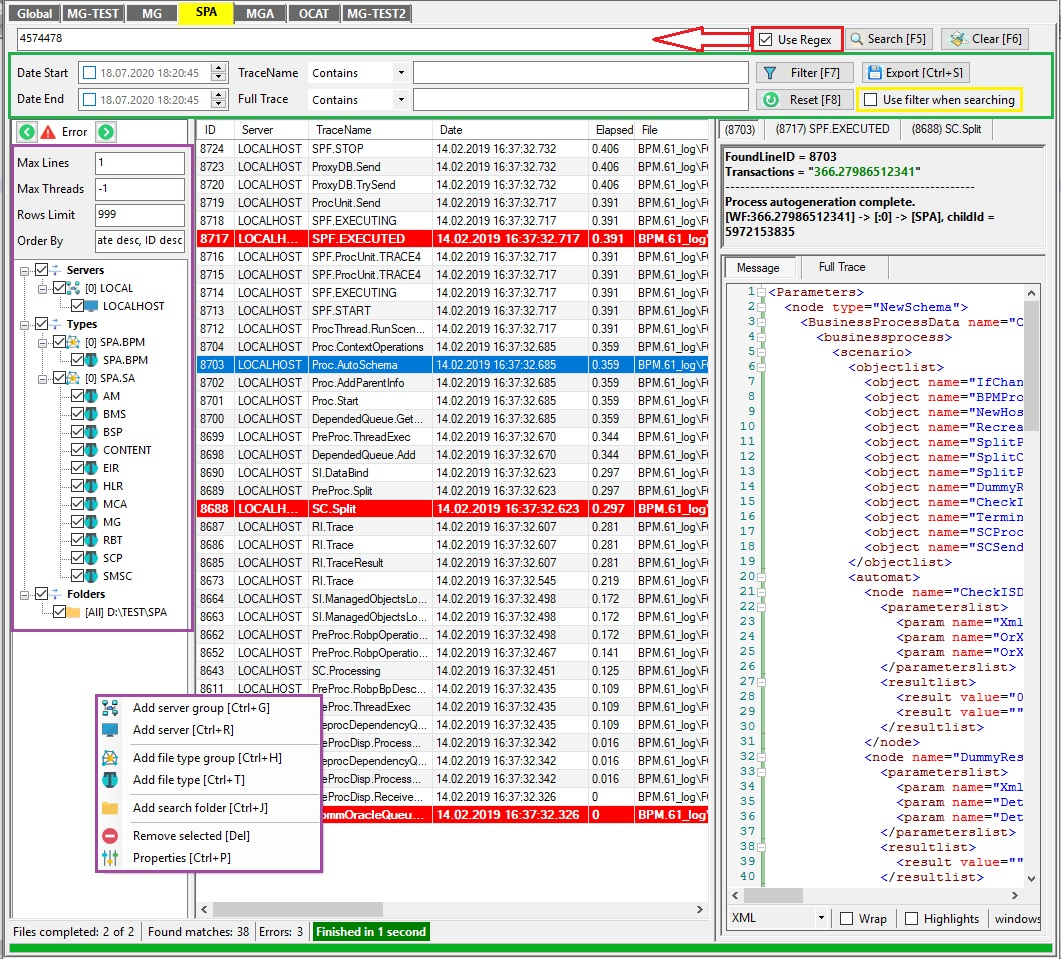
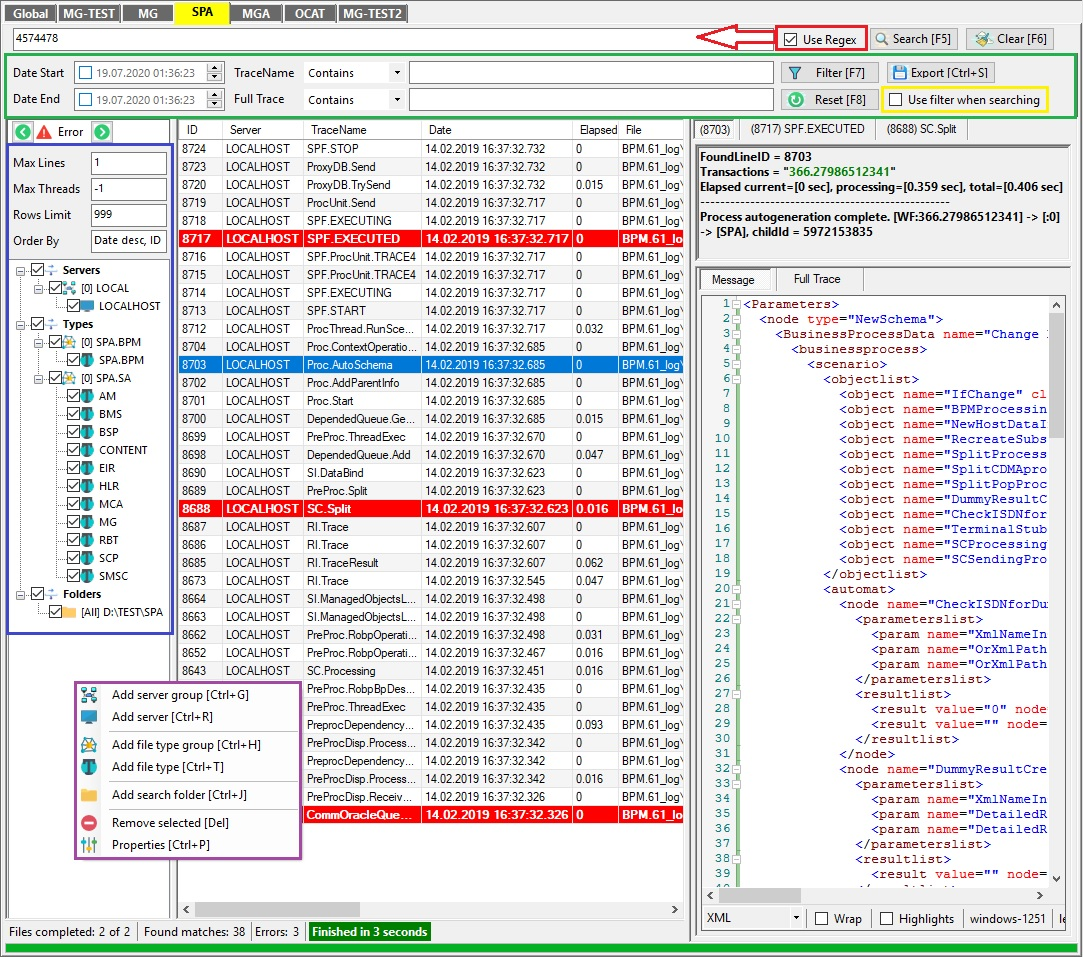
1

diff --git a/SPAMassageSaloon/LogsReader/Reader/DataTemplateCollection.cs b/SPAMassageSaloon/LogsReader/Reader/DataTemplateCollection.cs
@@ -48,16 +48,30 @@ namespace LogsReader.Reader
 	            if (trnTemplates.Count() <= 1)
 					continue;
 
-	            var i = 0;
-				DataTemplate firstTemplate = null;
-				foreach (var template in trnTemplates.Select(x => x.parent).OrderBy(x => x.Date))
-				{
-					if (i == 0)
-						firstTemplate = template;
+	            var trnList = trnTemplates.Select(x => x.parent)
+		            .OrderBy(x => x.Date)
+		            .ThenBy(x => x.ParentReader.Priority)
+		            .ThenBy(x => x.File)
+		            .ThenBy(x => x.FoundLineID);
 
-					if (template.ElapsedSec < 0)
-						template.ElapsedSec = template.Date.Value.Subtract(firstTemplate.Date.Value).TotalSeconds;
-					i++;
+				var firstTemplate = trnList.First();
+				var totalElapsed = trnList.Last().Date.Value.Subtract(firstTemplate.Date.Value);
+				DataTemplate pastTemplate = null;
+				foreach (var template in trnList)
+				{
+					if (template.ElapsedSecTotal < 0)
+					{
+						if(pastTemplate == null)
+							template.ElapsedSec = 0;
+						else
+							template.ElapsedSec = template.Date.Value.Subtract(pastTemplate.Date.Value).TotalSeconds;
+
+						template.ElapsedSecFromFirst = template.Date.Value.Subtract(firstTemplate.Date.Value).TotalSeconds;
+
+						template.ElapsedSecTotal = totalElapsed.TotalSeconds;
+					}
+
+					pastTemplate = template;
 				}
             }
         }

diff --git a/SPAMassageSaloon/LogsReader/Reader/DataTemplate.cs b/SPAMassageSaloon/LogsReader/Reader/DataTemplate.cs
@@ -166,7 +166,30 @@ namespace LogsReader.Reader
         [DGVColumn(ColumnPosition.After, nameof(DataTemplate.Tmp.ElapsedSec))]
         public string ElapsedSecString => ElapsedSec > 0 ? ElapsedSec.ToString("0.000") : ElapsedSec == 0 ? "0" : string.Empty;
 
+        public string ElapsedSecDescription
+        {
+	        get
+	        {
+		        if (ElapsedSecTotal > 0)
+		        {
+			        return $"Elapsed current=[{ElapsedSec:0.###} sec], processing=[{ElapsedSecFromFirst:0.###} sec], total=[{ElapsedSecTotal:0.###} sec]";
+		        }
+		        else if (ElapsedSecTotal == 0)
+		        {
+			        return "Elapsed 0 sec";
+		        }
+		        else
+		        {
+			        return string.Empty;
+		        }
+	        }
+        }
+
         public double ElapsedSec { get; internal set; } = -1;
+
+        public double ElapsedSecFromFirst { get; internal set; } = -1;
+
+        public double ElapsedSecTotal { get; internal set; } = -1;
 
         [DGVColumn(ColumnPosition.After, nameof(DataTemplate.Tmp.File))]
         public string FileNamePartial => ParentReader.FileNamePartial;

diff --git a/SPAMassageSaloon/LogsReader/Reader/TraceItemView.cs b/SPAMassageSaloon/LogsReader/Reader/TraceItemView.cs
@@ -155,6 +155,9 @@ namespace LogsReader.Reader
 				descriptionText.AppendText("\"", Color.Black);
 			}
 
+			if (CurrentTemplate.ElapsedSecTotal >= 0)
+				descriptionText.AppendText($"\r\n{CurrentTemplate.ElapsedSecDescription}");
+
 			if (!CurrentTemplate.Description.IsNullOrEmptyTrim())
 			{
 				descriptionText.AppendText($"\r\n{new string('-', 50)}\r\n");
